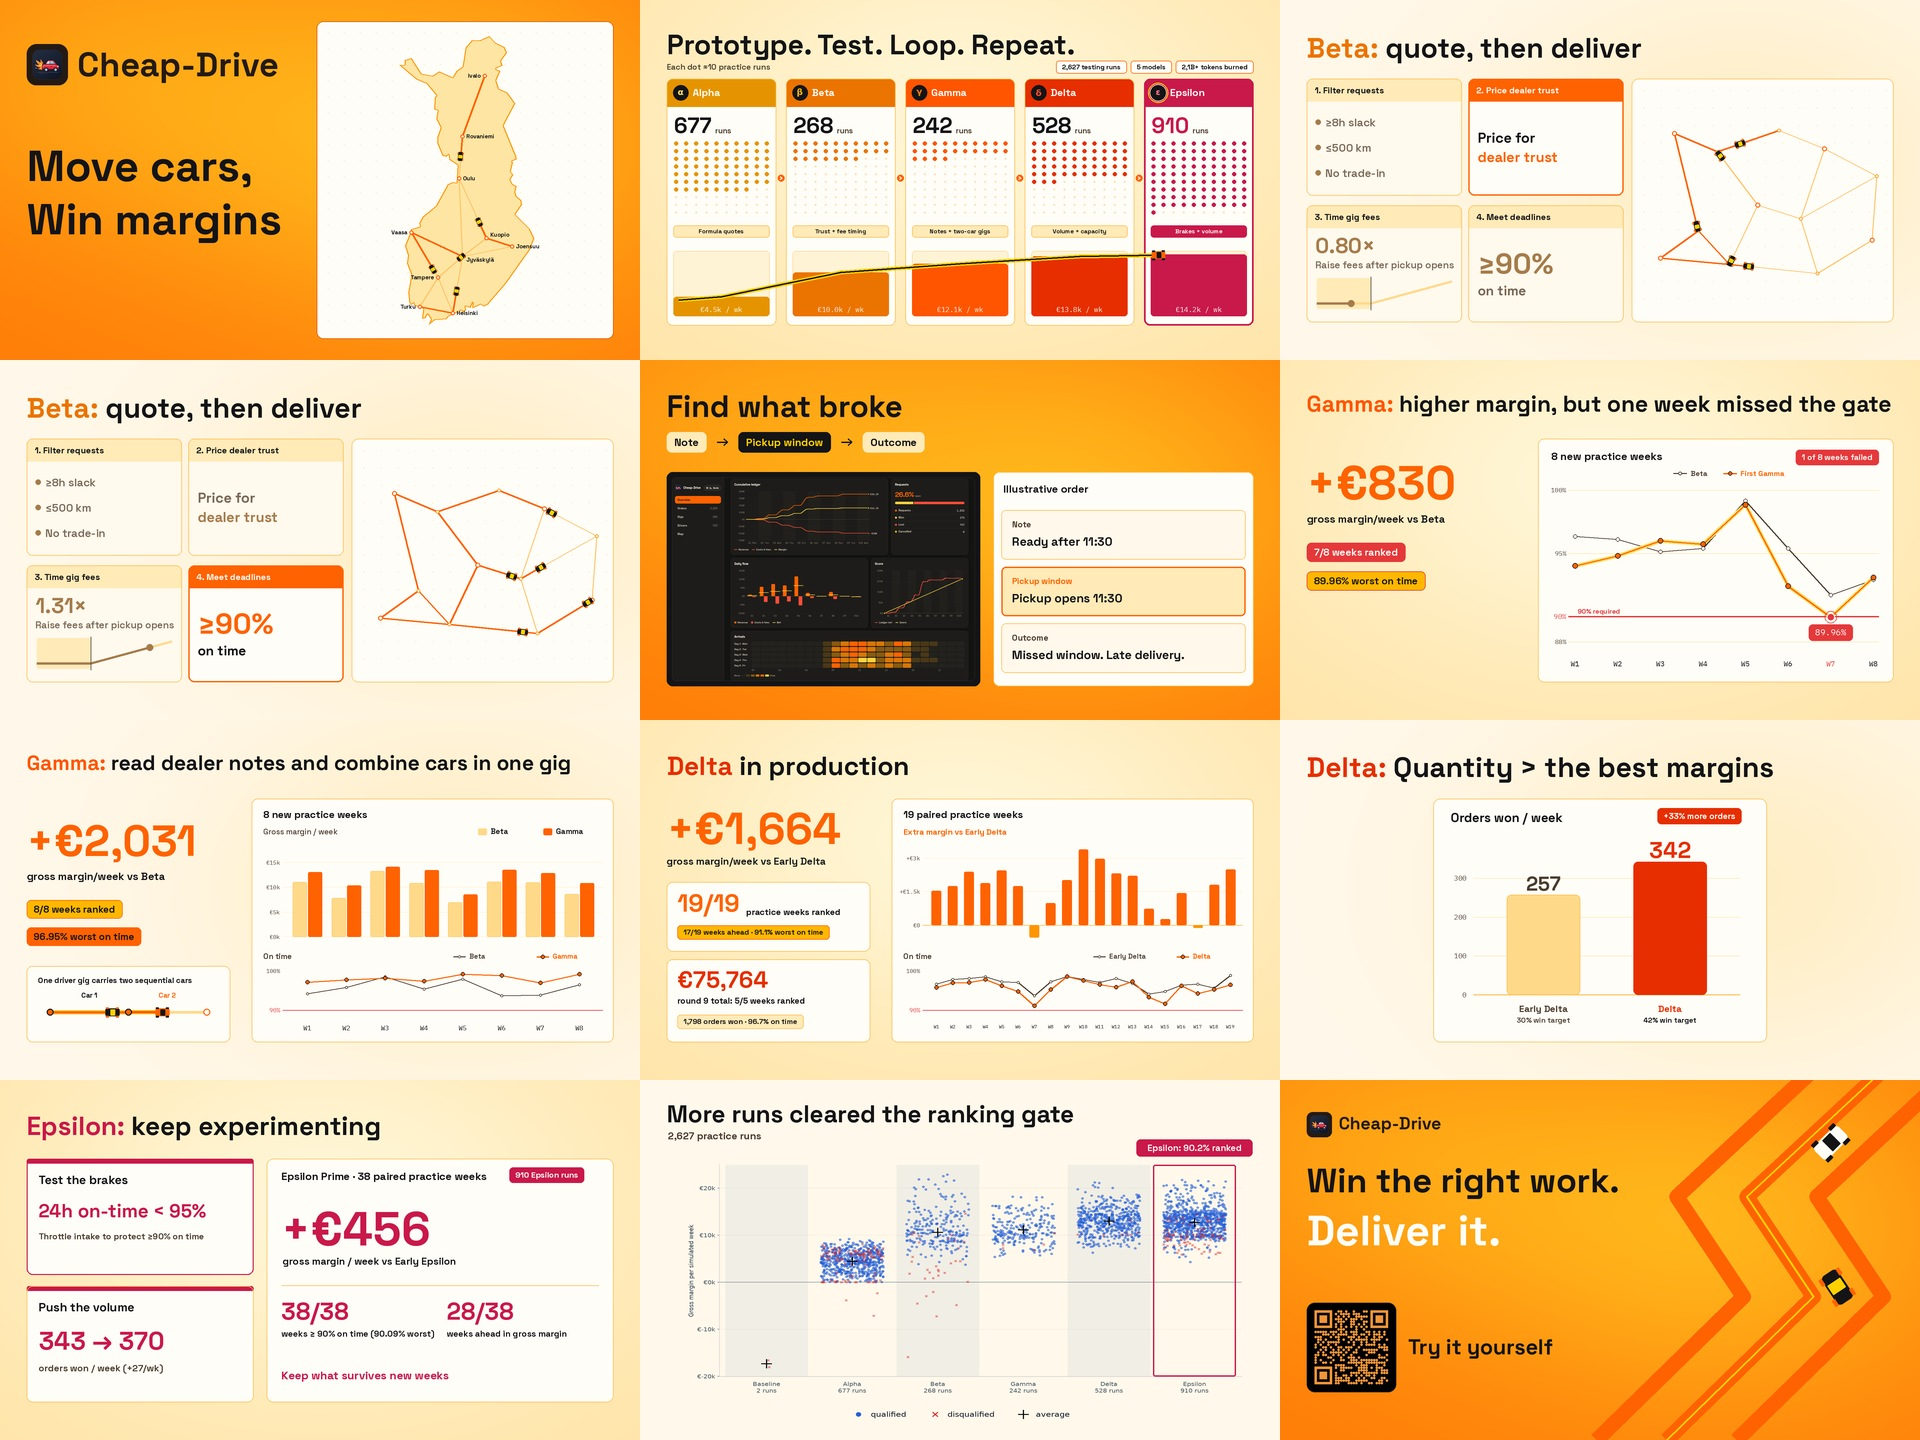
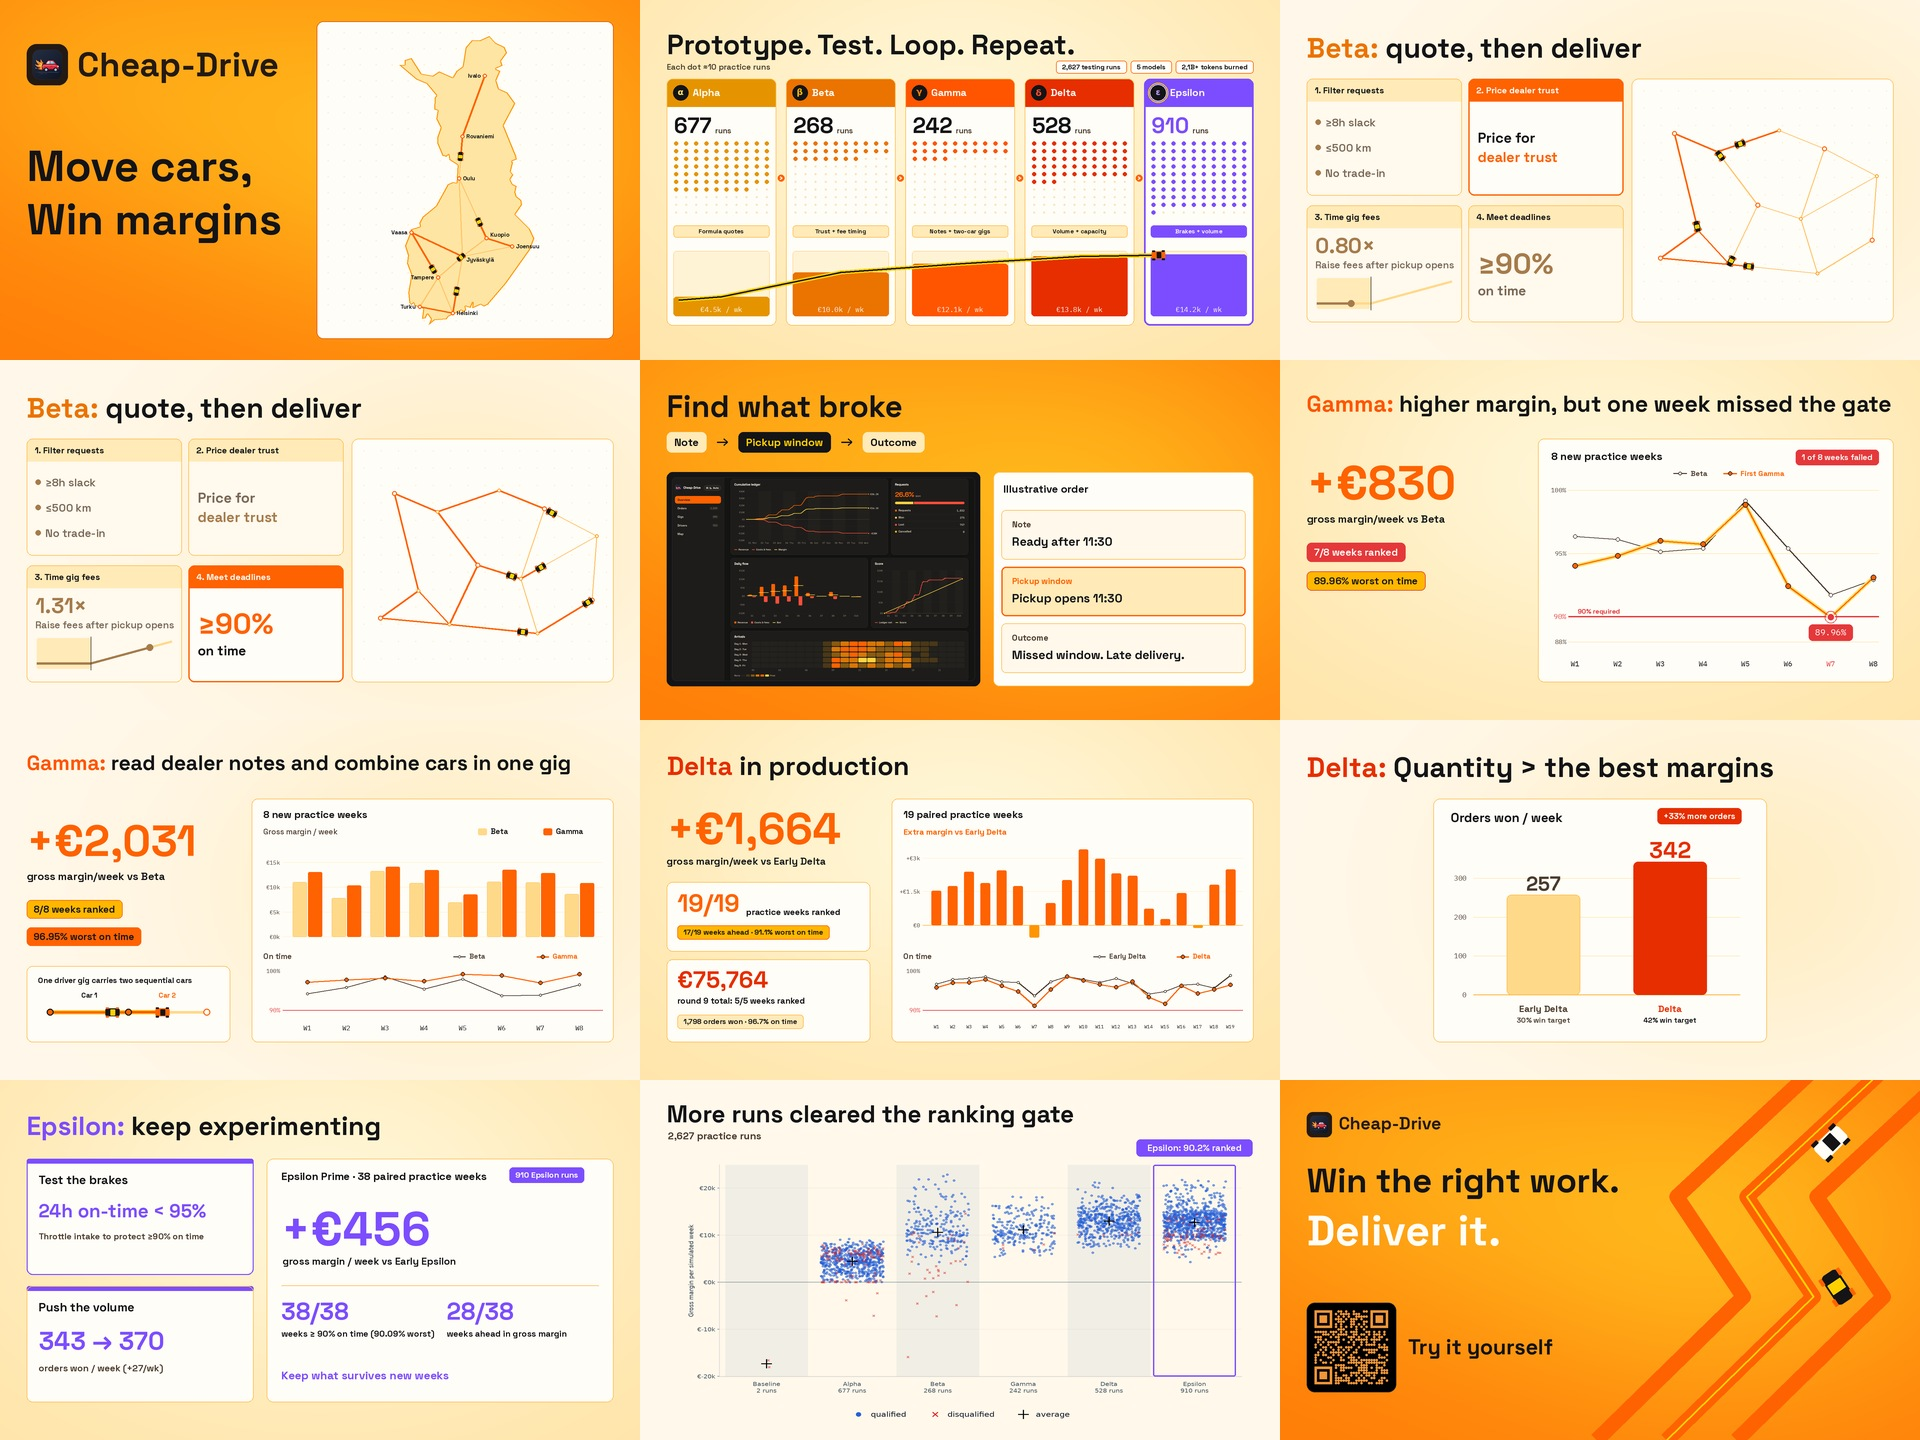
Use violet color (#7C4DFF / #B79CFF) for Epsilon across Slides 2, 9, and 10

diff --git a/docs/demo-video/index.html b/docs/demo-video/index.html
@@ -40,8 +40,8 @@
 </head>
 <body>
   <main class="stage">
-    <video controls autoplay loop playsinline preload="auto" poster="poster.png?v=2627b" src="cheap-drive-demo.mp4?v=2627b">
-      <track kind="captions" src="captions.vtt?v=2627b" srclang="en" label="English">
+    <video controls autoplay loop playsinline preload="auto" poster="poster.png?v=2627c" src="cheap-drive-demo.mp4?v=2627c">
+      <track kind="captions" src="captions.vtt?v=2627c" srclang="en" label="English">
     </video>
   </main>
 </body>

diff --git a/docs/demo-video/render.py b/docs/demo-video/render.py
@@ -509,7 +509,7 @@ def evolution(t):
         ('β', 'Beta', 268, 27, 10048, 'Trust + fee timing', '#EB7300', '#FFB700'),
         ('γ', 'Gamma', 242, 24, 12079, 'Notes + two-car gigs', '#FF5500', '#FF8000'),
         ('δ', 'Delta', 528, 53, 13760, 'Volume + capacity', '#E62E00', '#FF4D2E'),
-        ('ε', 'Epsilon', 910, 91, 14216, 'Brakes + volume', '#C9184A', '#FF758F'),
+        ('ε', 'Epsilon', 910, 91, 14216, 'Brakes + volume', '#7C4DFF', '#B79CFF'),
     ]
 
     curve_pts = []
@@ -743,7 +743,7 @@ def experiments(t):
         (2, 'Beta: 88.1% ranked', '#EB7300', CARD),
         (3, 'Gamma: 97.9% ranked', '#FF5500', CARD),
         (4, 'Delta: 98.7% ranked', '#E62E00', CARD),
-        (5, 'Epsilon: 90.2% ranked', '#C9184A', CARD),
+        (5, 'Epsilon: 90.2% ranked', '#7C4DFF', CARD),
     ]
     if t > 0.30:
         frac = clamp((t - 0.30) / 5.4)
@@ -1014,7 +1014,7 @@ def delta_iteration(t):
 # ---------------------------------------------------------------------------
 def epsilon_slide(t):
     im = base_canvas('sunburst').copy()
-    eps_col = '#C9184A'
+    eps_col = '#7C4DFF'
     enter_model_hdr(im, 'Epsilon:', ' keep experimenting', 80, 88, 78, t, .05, model_color=eps_col, rest_color=INK, weight=700)
 
     # Left column: Two clean top-accented cards ("Test the brakes", "Push the volume") aligned to y = 966
